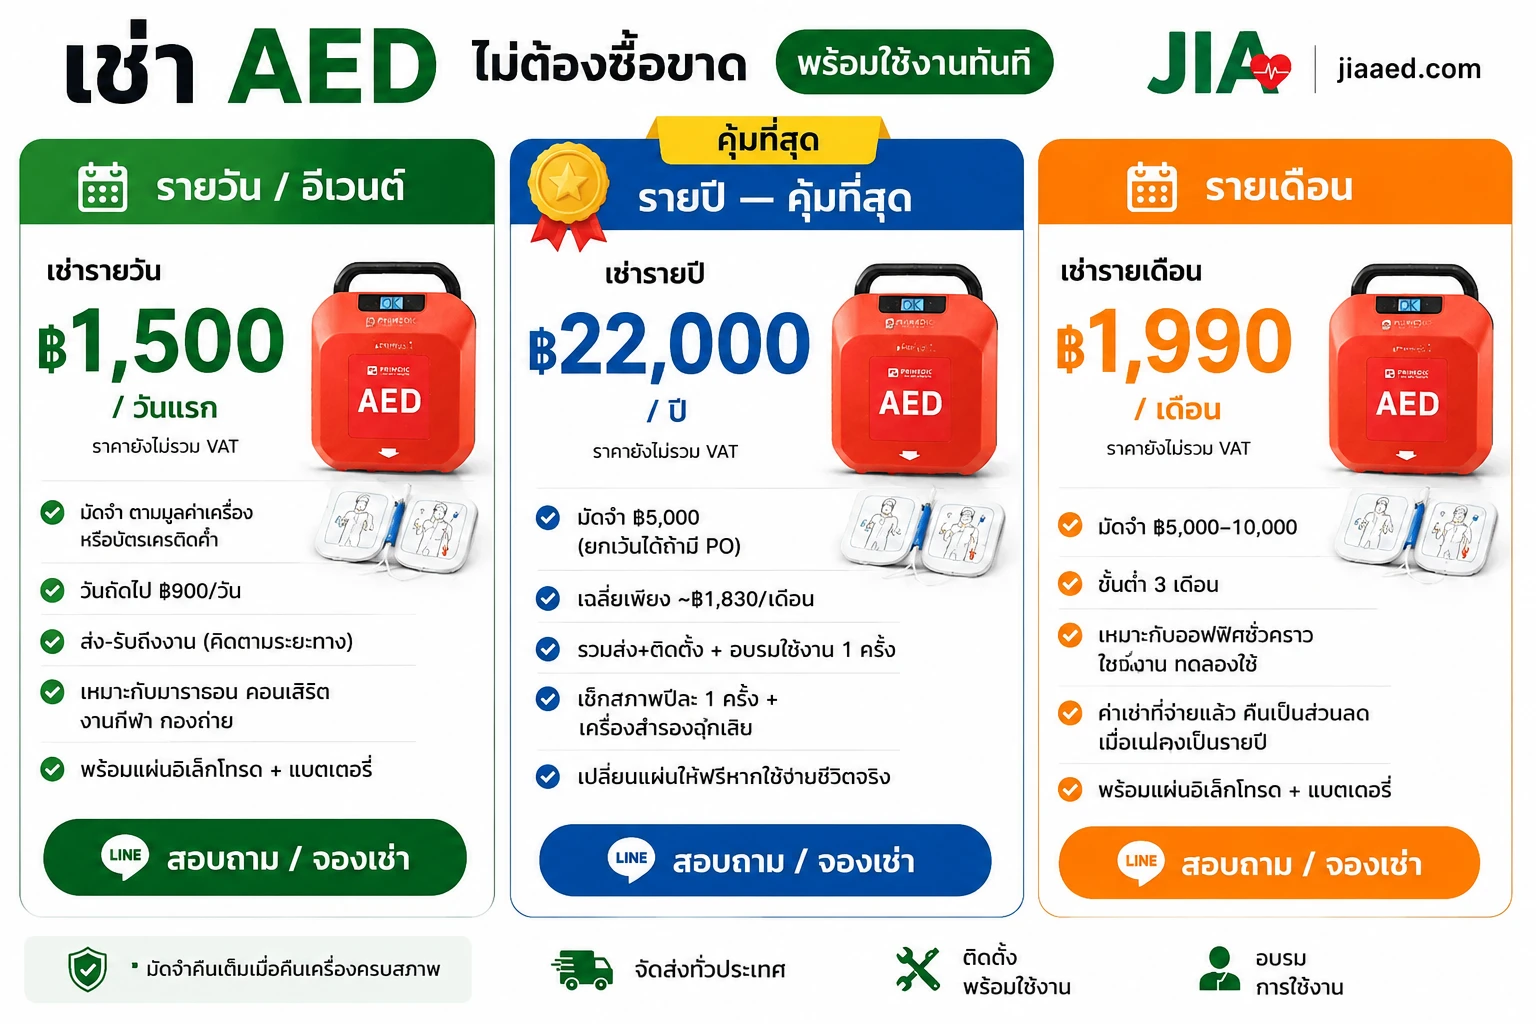
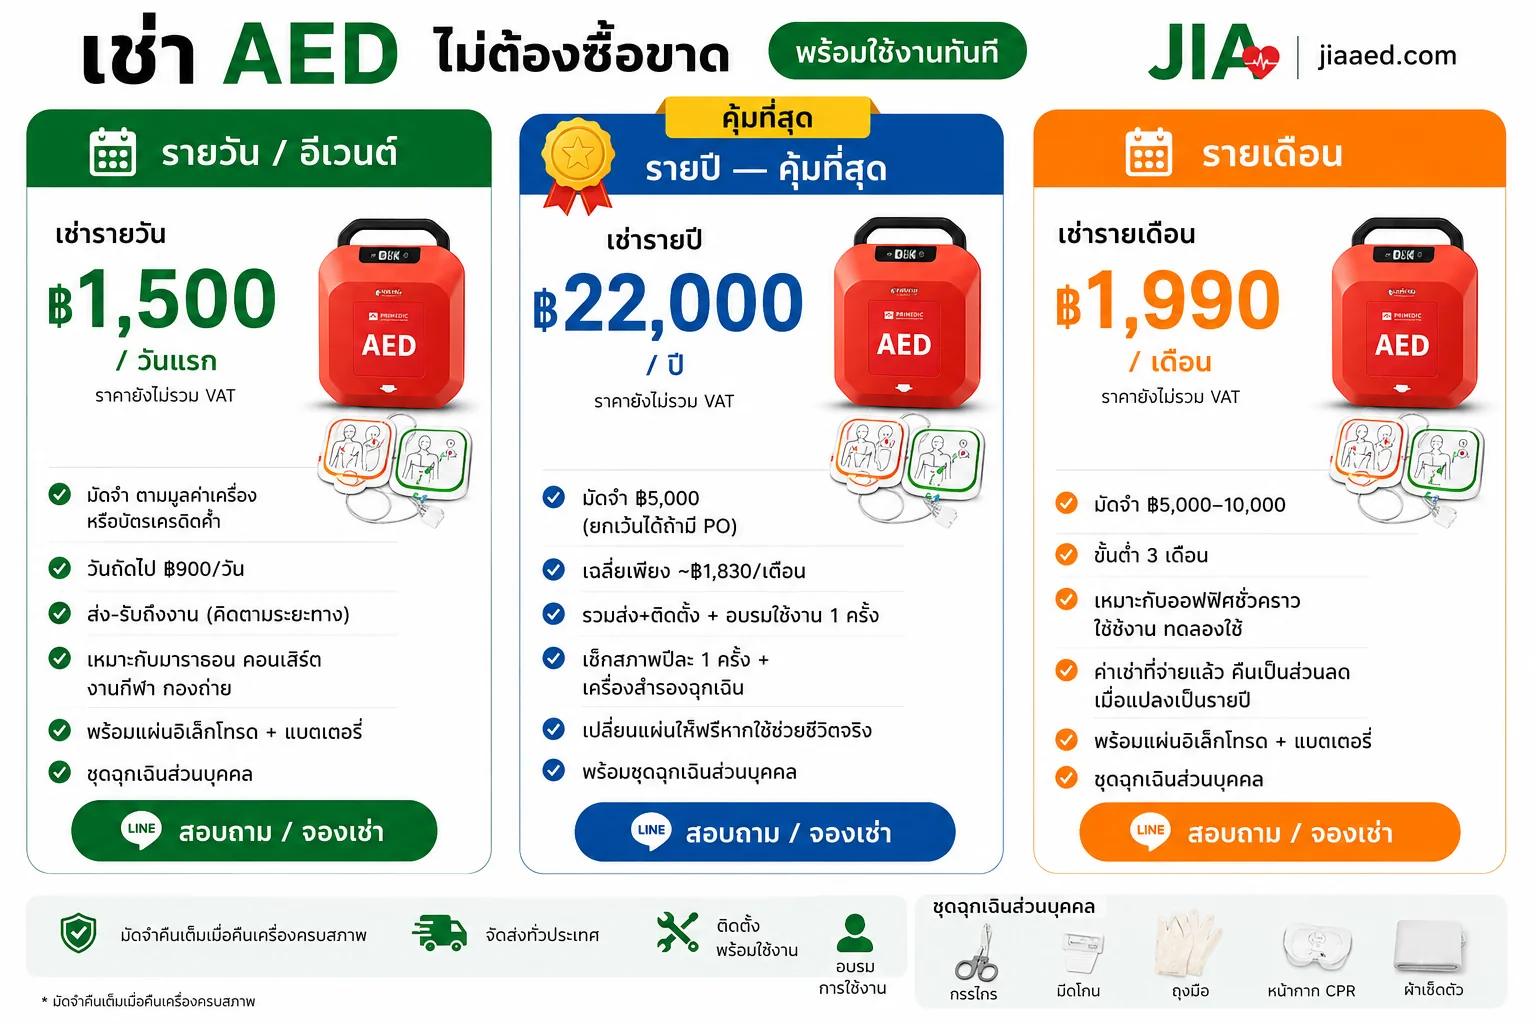
เปลี่ยนโปสเตอร์แผนเช่าจาก Amoul เป็น Yuwell/PRIMEDIC (รูปจาก Drive เจ้าของ) (#130)
aed-rent-all.webp/.jpg + การ์ดรายวัน/รายปี/รายเดือน แทนที่ด้วยเวอร์ชัน Yuwell
(rentaed2.png จาก Drive, crop รายคอลัมน์) — ชื่อไฟล์เดิม ไม่แก้โค้ด
AD-CREATIVES.md อัปเดตทะเบียน + กำกับ portrait ยังเป็น Amoul ห้ามใช้โฆษณา

diff --git a/public/images/AD-CREATIVES.md b/public/images/AD-CREATIVES.md
@@ -31,17 +31,20 @@ show the AED, not another product.
 | `product-main.png` | AED Amoul i7 unit (front) — discontinued, ads-landing-page only |
 | `aed-i7-2.jpg` | AED Amoul i7 poster (MP Group) |
 
-## 🟢 AED rental campaign creatives (เช่า AED — Amoul)
+## 🟢 AED rental campaign creatives (เช่า AED — Yuwell/PRIMEDIC)
 
 Pricing posters for the AED rental program (landing: `/aed/rental`). VAT not included on the posters.
+2026-07-30: replaced the Amoul-device versions with the owner's Yuwell/PRIMEDIC poster
+(`rentaed2.png` from Drive) — per-plan cards are column crops of the same poster.
+Usable in paid ads (matches ฆพ.2475/2569); the old Amoul versions must NOT be re-used.
 
 | File | Content |
 | --- | --- |
-| `aed-rent-daily.jpg` | เช่ารายวัน/อีเวนต์ ฿1,500 วันแรก (วันถัดไป ฿900/วัน) |
-| `aed-rent-monthly.jpg` | เช่ารายเดือน ฿1,990/เดือน (ขั้นต่ำ 3 เดือน) |
-| `aed-rent-yearly.jpg` | เช่ารายปี ฿22,000/ปี (คุ้มที่สุด) |
-| `aed-rent-all.jpg` | รวม 3 แพ็กเกจ (แนวนอน 3:2) |
-| `aed-rent-all-portrait.jpg` | รวม 3 แพ็กเกจ (แนวตั้ง 3:4) |
+| `aed-rent-daily.jpg` | เช่ารายวัน/อีเวนต์ ฿1,500 วันแรก (วันถัดไป ฿900/วัน) — Yuwell/PRIMEDIC |
+| `aed-rent-monthly.jpg` | เช่ารายเดือน ฿1,990/เดือน (ขั้นต่ำ 3 เดือน) — Yuwell/PRIMEDIC |
+| `aed-rent-yearly.jpg` | เช่ารายปี ฿22,000/ปี (คุ้มที่สุด) — Yuwell/PRIMEDIC |
+| `aed-rent-all.jpg` / `aed-rent-all.webp` | รวม 3 แพ็กเกจ (แนวนอน 3:2) — Yuwell/PRIMEDIC |
+| `aed-rent-all-portrait.jpg` | รวม 3 แพ็กเกจ (แนวตั้ง 3:4) — ⚠ ยังเป็น Amoul เดิม ห้ามใช้ยิงโฆษณา รอทำเวอร์ชัน Yuwell |
 
 ## 🔴 PRIMEDIC / Yuwell assets
 
